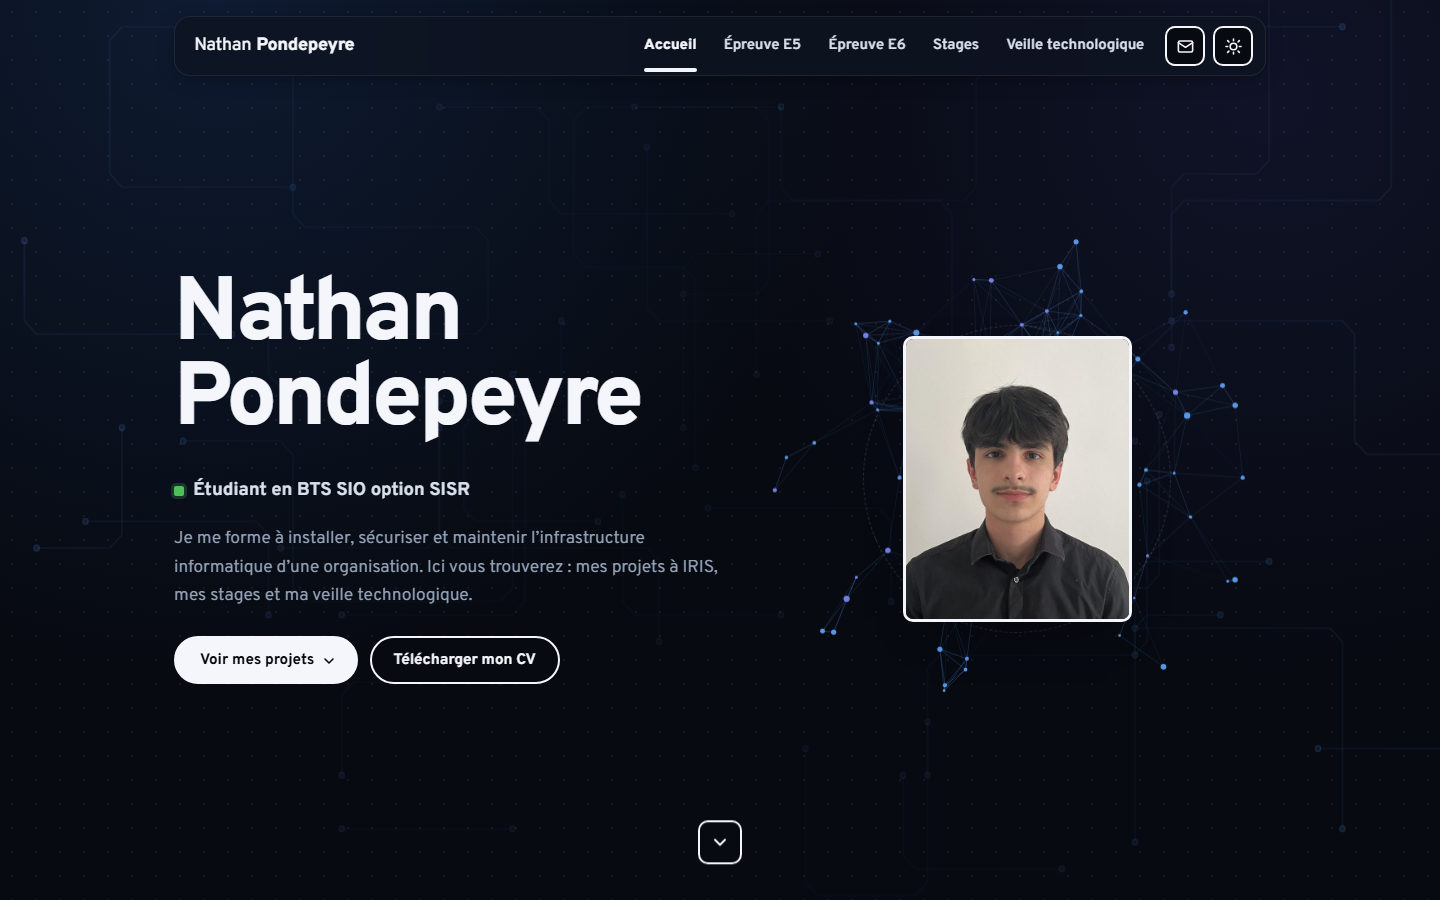
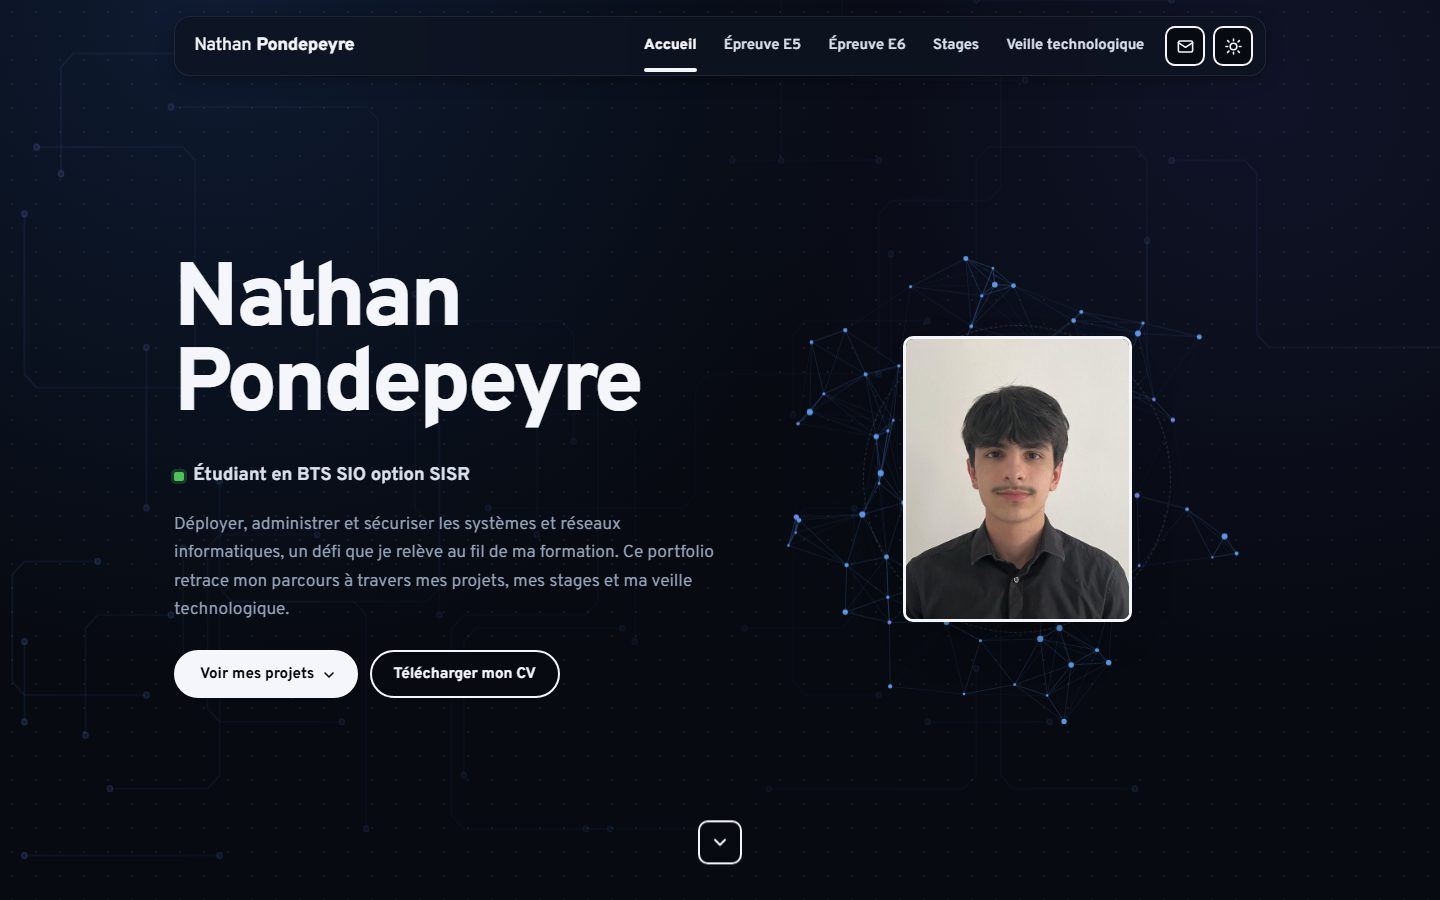
Accueil : nouvelle phrase d'accroche
Capture de l'accueil (page projet Portfolio et aperçu E5) refaite.

diff --git a/index.html b/index.html
@@ -22,7 +22,7 @@
 <div>
 <h1>Nathan Pondepeyre</h1>
 <p class="role">Étudiant en BTS SIO option SISR</p>
-<p>Je me forme à installer, sécuriser et maintenir l’infrastructure informatique d’une organisation. Ici vous trouverez : mes projets à IRIS, mes stages et ma veille technologique.</p>
+<p>Déployer, administrer et sécuriser les systèmes et réseaux informatiques, un défi que je relève au fil de ma formation. Ce portfolio retrace mon parcours à travers mes projets, mes stages et ma veille technologique.</p>
 <div class="btns"><div class="btn-menu"><a class="btn" href="e5.html" aria-expanded="false">Voir mes projets<svg class="chevron" viewBox="0 0 24 24" aria-hidden="true"><path d="M6 9l6 6 6-6"/></svg></a><div class="btn-menu-list"><a href="e5.html"><span class="pastille">E5</span><span class="choix"><strong>Épreuve E5</strong><small>Support et services informatiques</small></span></a><a href="e6.html"><span class="pastille">E6</span><span class="choix"><strong>Épreuve E6</strong><small>Administration systèmes et réseaux</small></span></a></div></div><a class="btn alt" href="documents/CV_Nathan_Pondepeyre.pdf">Télécharger mon CV</a></div>
 </div>
 <div class="hero-visual"><canvas class="reseau" aria-hidden="true"></canvas><div class="photo"><img src="images/img-accueil.jpg" width="900" height="1200" alt="Photo de Nathan Pondepeyre" fetchpriority="high"></div></div>
